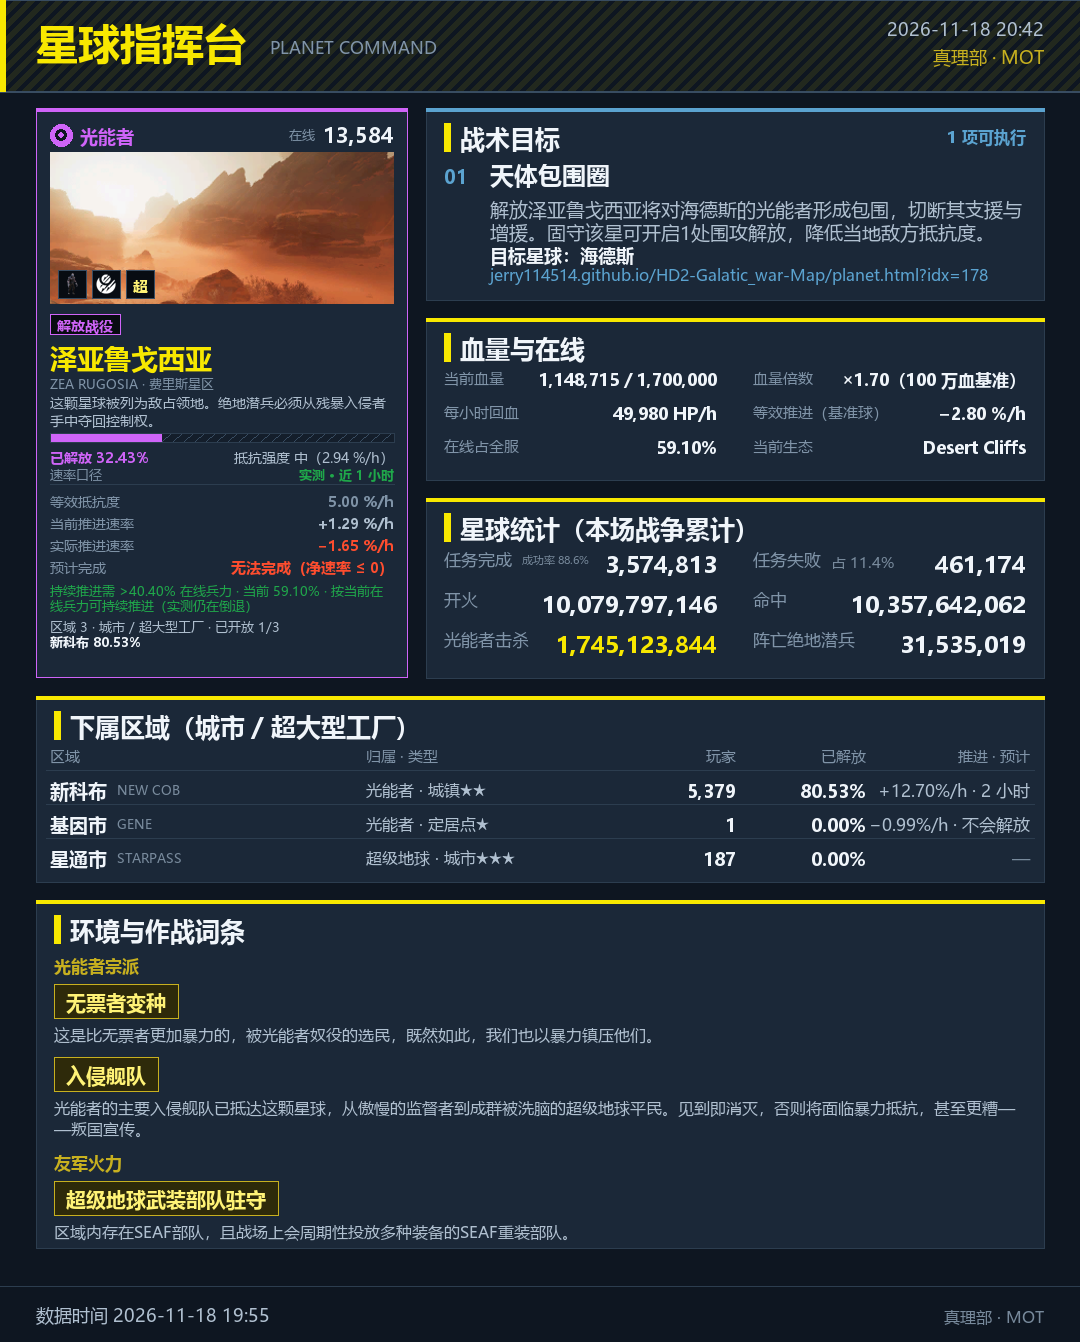
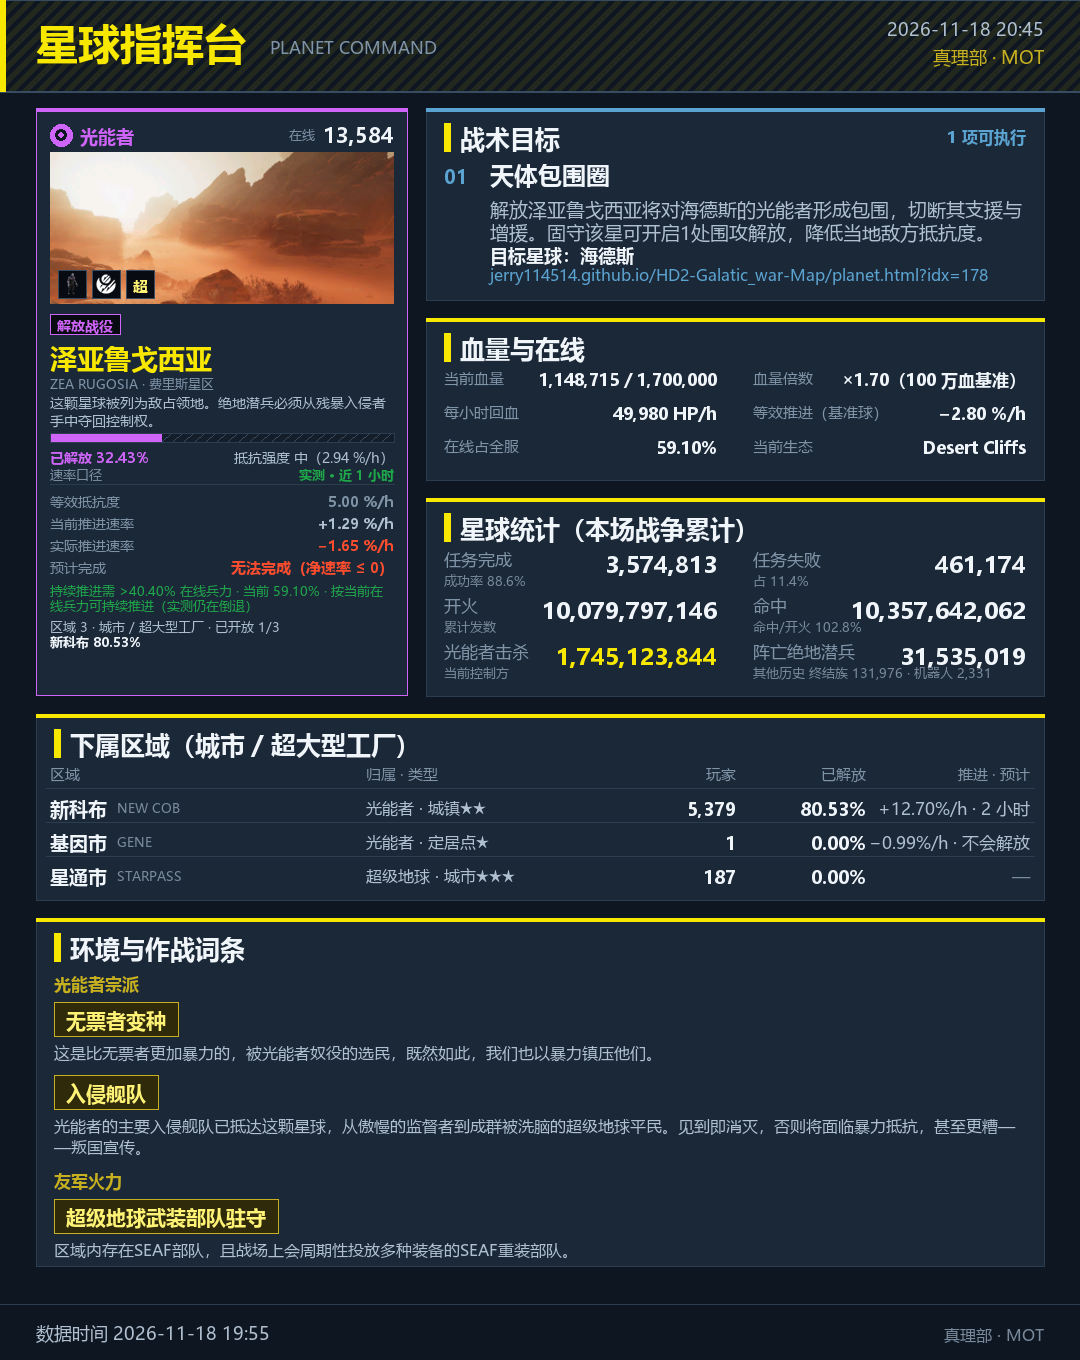
fix(planet-card): 窄列统计副标签下沉，标签不再被截断
星球统计的列宽收到 291px 后，「任务完成」等标签会被挤成「任务…」。改为按单列宽（<320px）判断，副标签另起一行，标签与数值保持完整；样图同步为最终版本。

diff --git a/plugins/astrbot_plugin_hd2_war_report/report_card.py b/plugins/astrbot_plugin_hd2_war_report/report_card.py
@@ -1830,7 +1830,7 @@ def _stats_block(dr, data, planet, state, width):
         ("阵亡绝地潜兵", fmt(stats.get("deaths") or 0),
          "其他历史 " + " · ".join(k[0] + " " + fmt(k[1]) for k in others) if others else ""),
     ]
-    row_h = 46 if width < 430 else 40          # 窄列时副标签另起一行，行高加一档
+    row_h = 46 if (width - 36) // 2 < 320 else 40   # 单列太窄时副标签另起一行，行高加一档
     return rows, True, 50 + row_h * 3 + 10
 
 
@@ -1843,11 +1843,12 @@ def _stats_panel(dr, x, y, w, rows, present, height):
             dr.text((x + 18, y + 54 + i * 22), line, font=F(15), fill=DIM)
         return
     colw = (w - 36) // 2
-    row_h = 46 if w < 430 else 40
+    narrow = colw < 320                          # 单列放不下「标签＋副标签＋长数值」时副标签下沉
+    row_h = 46 if narrow else 40
     for i, (label, value, note) in enumerate(rows):
         kx = x + 18 + (i % 2) * (colw + 18)
         ky = y + 50 + (i // 2) * row_h
-        narrow_note = bool(note) and w < 430
+        narrow_note = bool(note) and narrow
         label_value_row(dr, kx, ky, colw - 18, label, value, F(15), F(21, True),
                         note=None if narrow_note else note, note_font=F(13), gap=12,
                         note_fill=(120, 138, 156),
